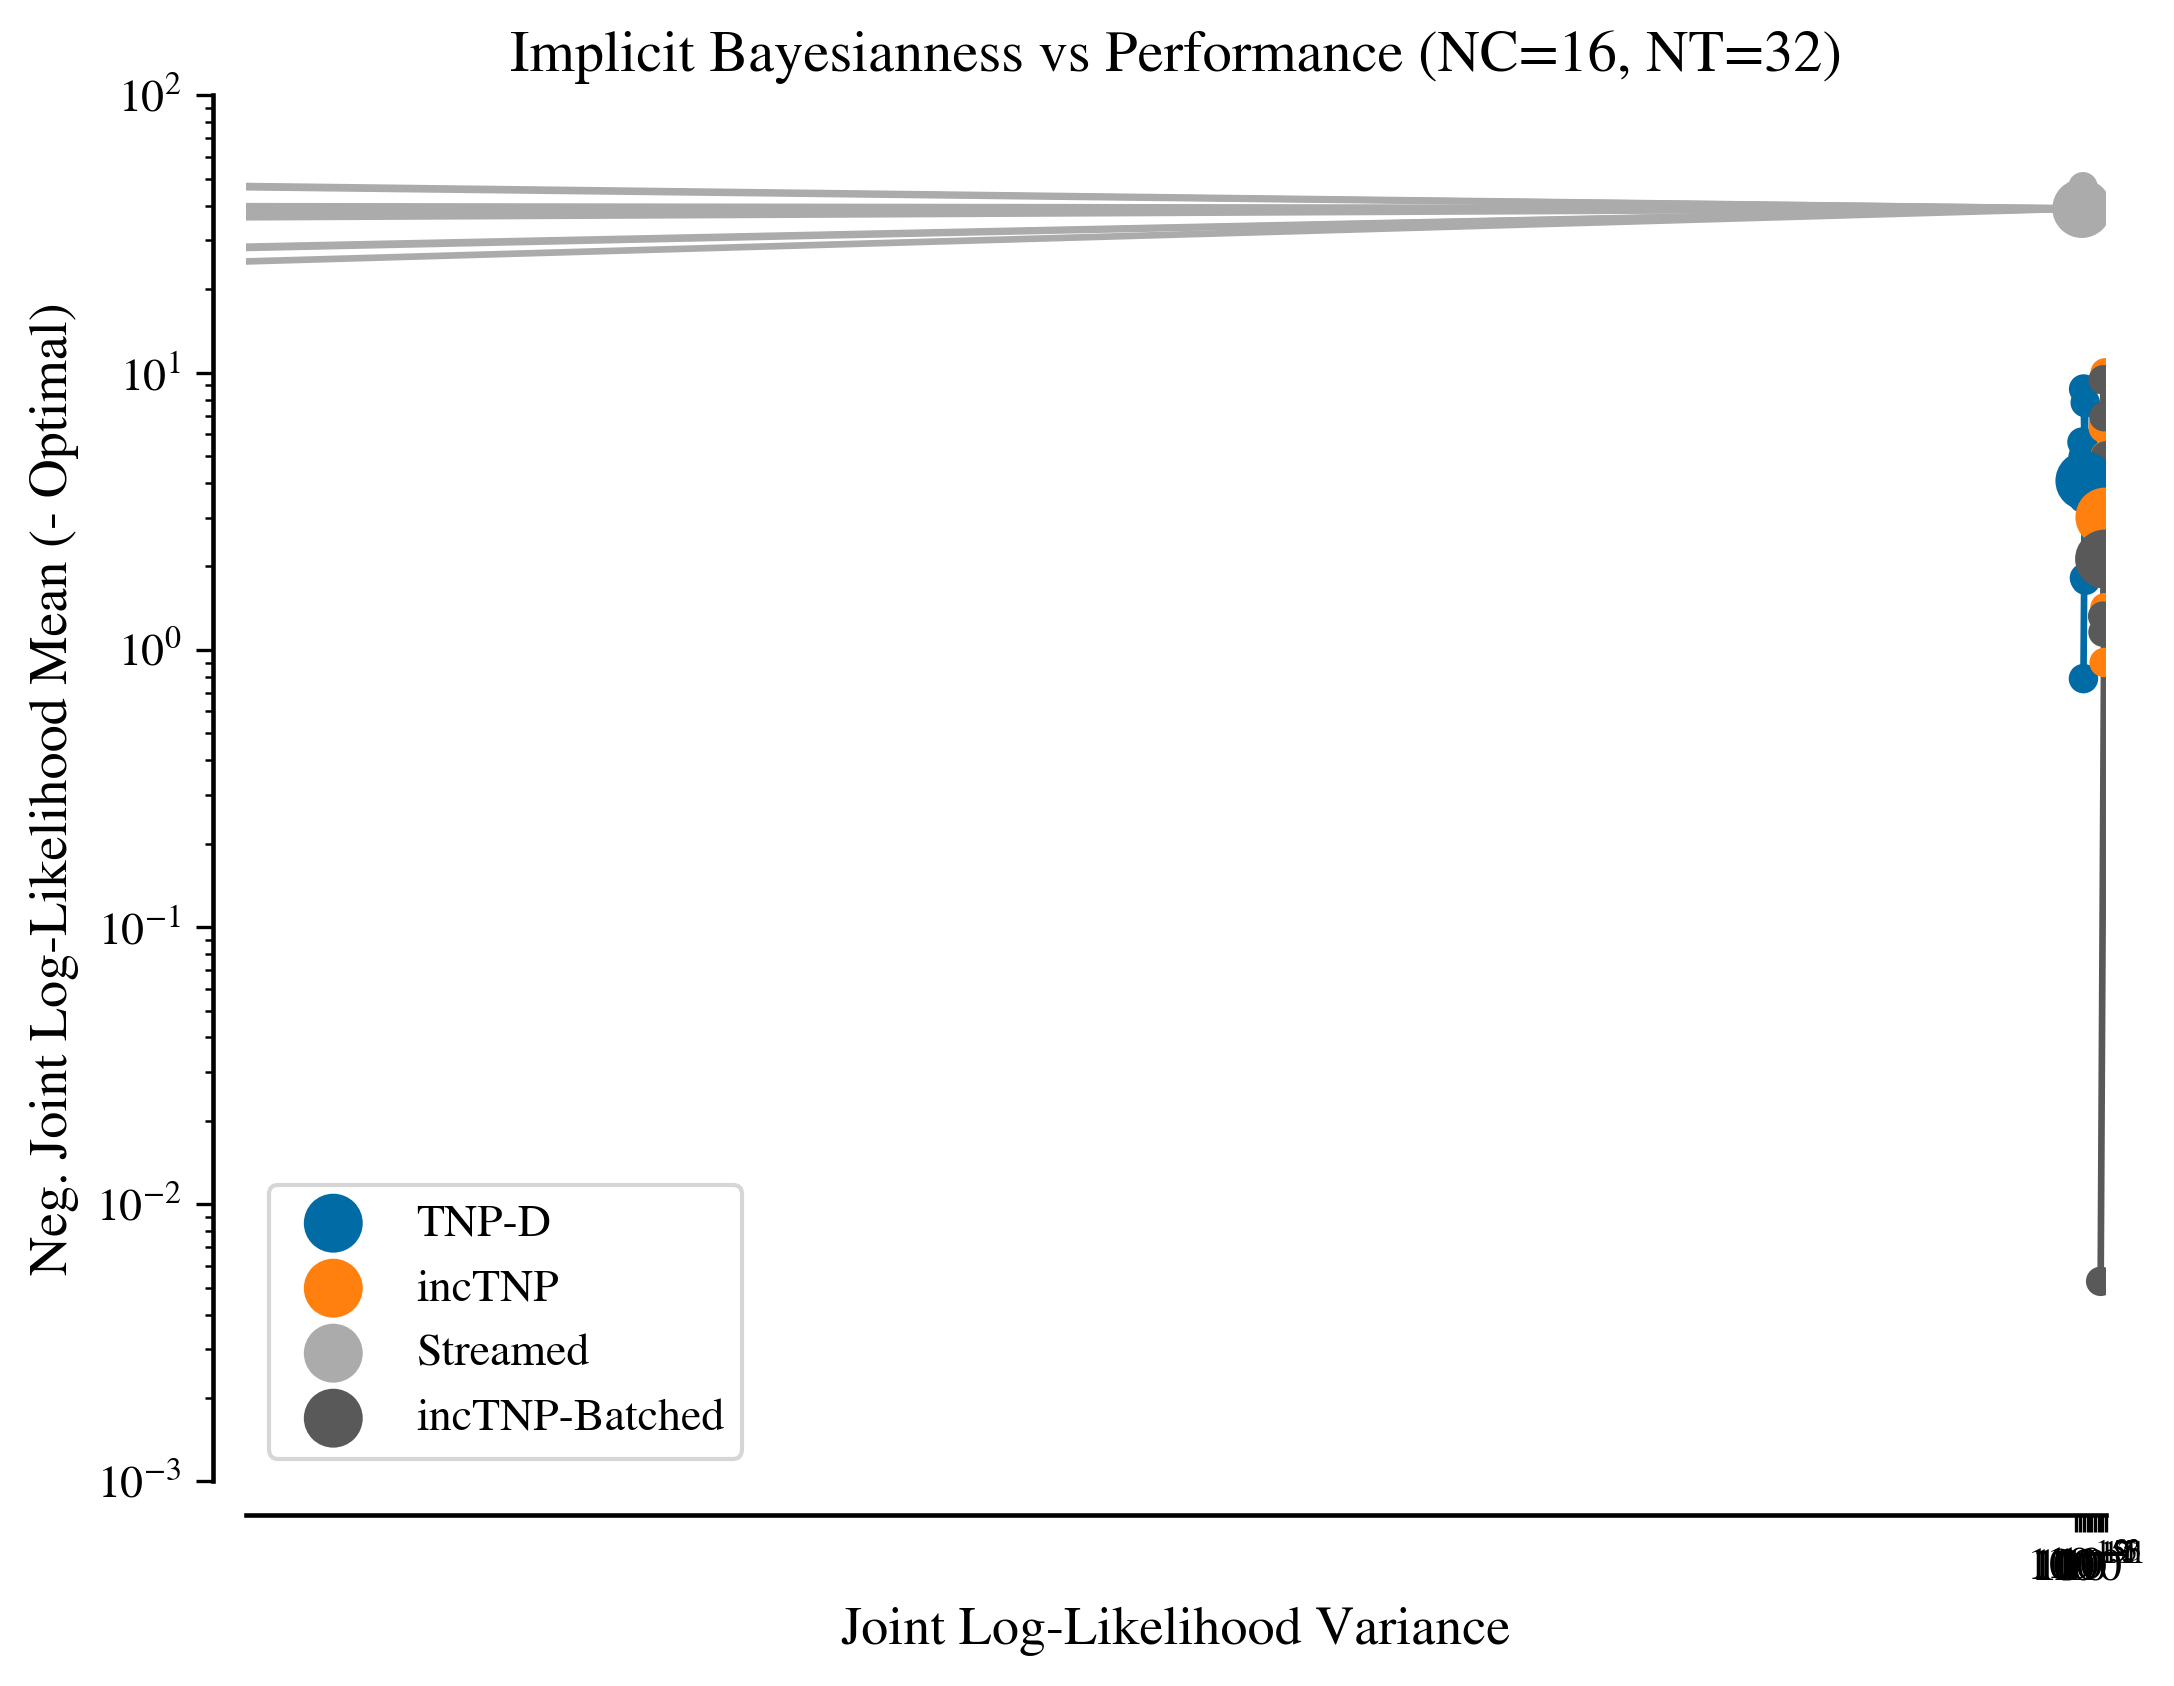
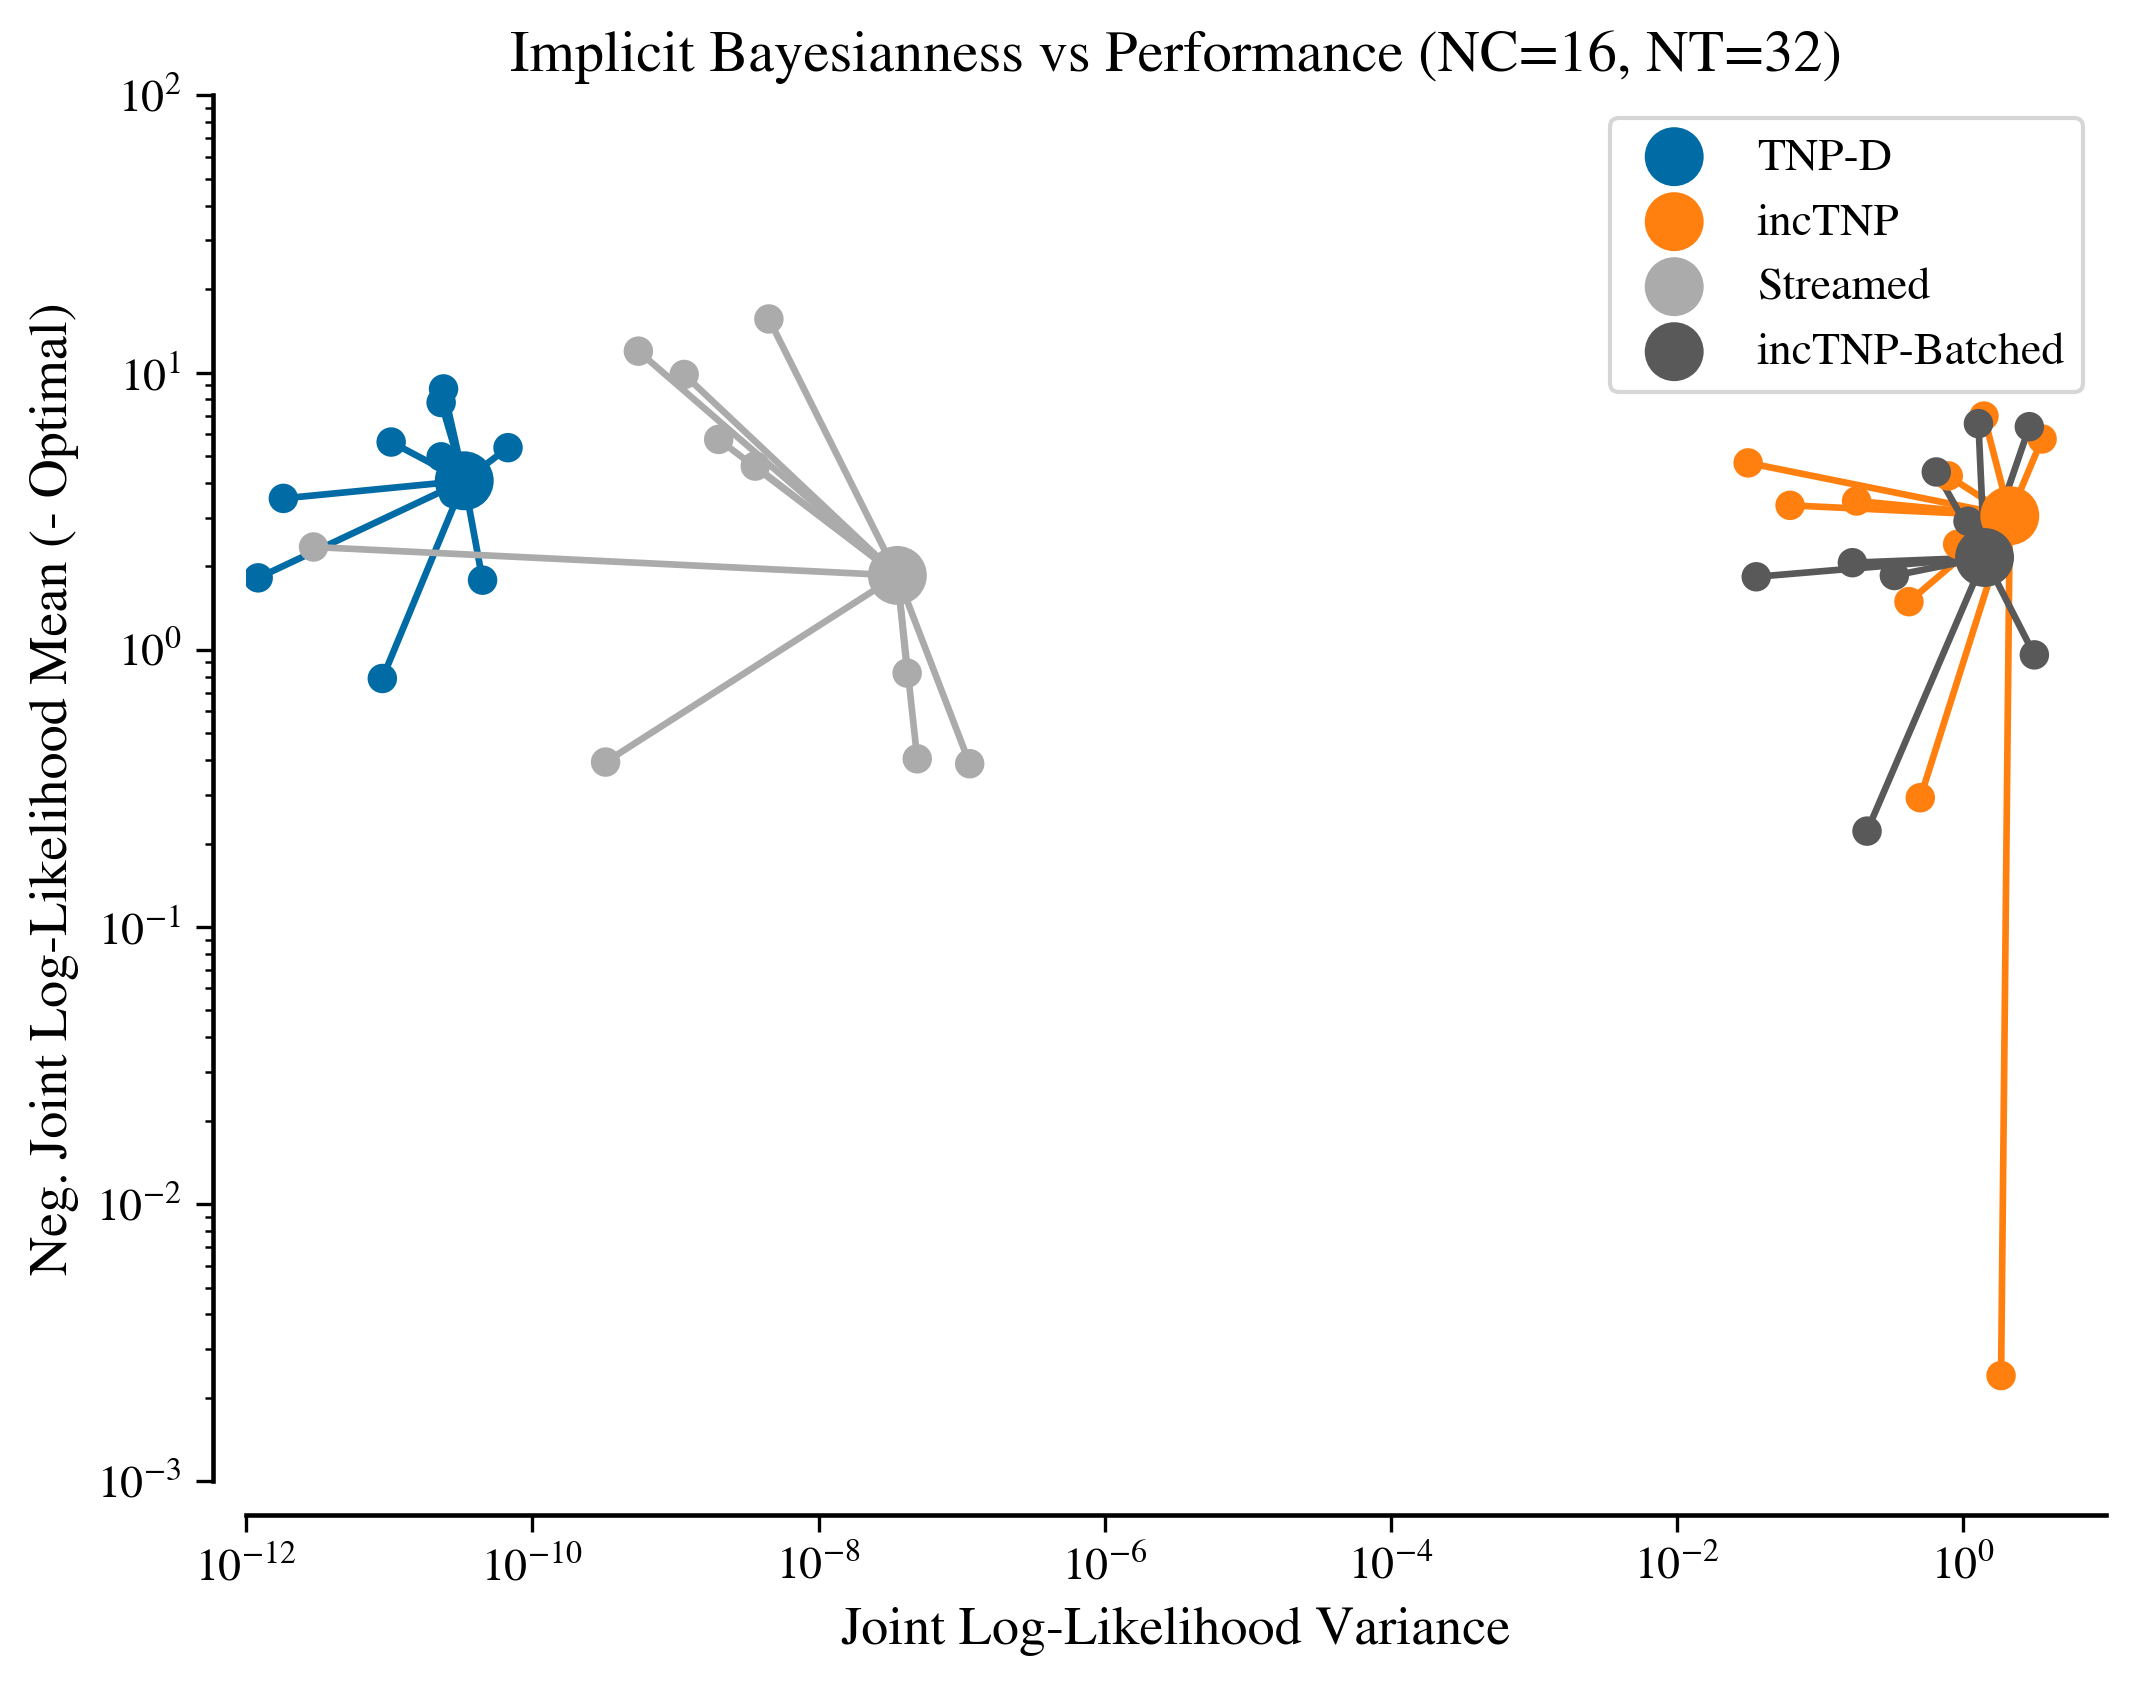
Some experiments plus more performant models for exch

diff --git a/experiments/exchangeability.py b/experiments/exchangeability.py
@@ -72,6 +72,7 @@ def m_var_fixed(tnp_model, xc: torch.Tensor, yc: torch.Tensor, xt: torch.Tensor,
         m, _, dx = xc.shape
         nt = yt.shape[1]
         k_m = K * m
+        assert (is_gp_model and dy == 1) or not is_gp_model, "GP must have dy = 1"
 
         assert return_sample_index == None or (return_sample_index >= 0 and return_sample_index < m), "Invalid return index"
 
@@ -118,9 +119,10 @@ def m_var_fixed(tnp_model, xc: torch.Tensor, yc: torch.Tensor, xt: torch.Tensor,
 
             # Computes log likelihood
             if is_gp_model:
-                log_p_chunk = pred_dist.log_prob(chunk_yt.squeeze(-1)) # Dy must be = 1 for GP so squeeze to get log_p
-            else:
-                log_p_chunk = pred_dist.log_prob(chunk_yt)
+                # Computes marg (ie takes diagonal)
+                pred_dist = pred_dist.to_data_independent_dist()
+                pred_dist = td.Normal(loc=pred_dist.mean.unsqueeze(-1), scale=pred_dist.stddev.unsqueeze(-1)) # Expands for dy=1 term
+            log_p_chunk = pred_dist.log_prob(chunk_yt)
             all_log_probs.append(log_p_chunk)
 
             # Delete unused datastraight away - probably excessive but just to be sure
@@ -133,10 +135,10 @@ def m_var_fixed(tnp_model, xc: torch.Tensor, yc: torch.Tensor, xt: torch.Tensor,
         # Converts list to tensor required
         log_probs = torch.cat(all_log_probs, dim=0) # [K * m, nt, dy] 
         # Handles GP vs TNP cases seperately
-        if is_gp_model:
-            log_probs = log_probs.view(K, m) # [K, m]
-        else:
-            log_probs = log_probs.sum(dim=(-1, -2)).view(K, m)  # sums over nt and dy [K, m]
+        #if is_gp_model:
+        #    log_probs = log_probs.view(K, m) # [K, m]
+        
+        log_probs = log_probs.sum(dim=(-1, -2)).view(K, m)  # sums over nt and dy [K, m]
 
         variance = log_probs.var(dim=0, unbiased=True) # Variance over K - this is Var_PI from eq 5 in paper (this gives [m])
         m_var_val = variance.mean().item() # Mean over m batches sampled from D^(n) - ie the monte-carlo approximation of the expectation
@@ -339,8 +341,8 @@ def get_plot_rbf(nc, nt, samples_per_epoch, batch_size):
 # Attempts to recreate something like figure 2
 def plot_models_setup_rbf_same():
     # Defines each model
-    tnp_plain = ['experiments/configs/synthetic1dRBF/gp_plain_tnp_rangesame.yml', 'pm846-university-of-cambridge/plain-tnp-rbf-rangesame/model-7ib3k6ga:v200', "TNP-D"]
-    inc_tnp = ['experiments/configs/synthetic1dRBF/gp_causal_tnp_rangesame.yml', 'pm846-university-of-cambridge/mask-tnp-rbf-rangesame/model-vavo8sh2:v200', "incTNP"]
+    tnp_plain = ['experiments/configs/synthetic1dRBF/gp_plain_tnp_rangesame.yml', 'pm846-university-of-cambridge/plain-tnp-rbf-rangesame/model-a3qwpptn:v200', "TNP-D"]
+    inc_tnp = ['experiments/configs/synthetic1dRBF/gp_causal_tnp_rangesame.yml', 'pm846-university-of-cambridge/mask-tnp-rbf-rangesame/model-8mxfyfnw:v200', "incTNP"]
     inc_tnp_batched=['experiments/configs/synthetic1dRBF/gp_batched_causal_tnp_rbf_rangesame.yml', 'pm846-university-of-cambridge/mask-batched-tnp-rbf-rangesame/model-xtnh0z37:v200', "incTNP-Batched"]
     models_tnp = [tnp_plain, inc_tnp, inc_tnp_batched]
 
@@ -367,7 +369,7 @@ def plot_models_setup_rbf_same():
 
     models_all_no_ar = models_tnp + models_gp
     models_all = models_tnp + models_gp + models_ar
-    return models_all_no_ar
+    return models_gp
 
 def extract_vars_from_folder_name(folder_name):
     patterns = {
@@ -420,7 +422,7 @@ def plot_from_folder(folder):
             model_summary_txt = f.read()
         # Extracts from the summary fixed format
         lines = model_summary_txt.split("\n")
-        model_name = lines[1].split(" ")[1]
+        model_name = lines[1].split(": ")[1]
         mean_m_var = float(lines[2].split(" ")[1])
         mean_m_nlls = float(lines[3].split(" ")[1])
         npz_file = lines[4].split(": ")[1]
@@ -509,12 +511,7 @@ def gather_stats_models(helper_tuple, base_folder_name):
     use_autoreg_eq=False
     max_samples=samples_per_epoch
     return_samples=max_samples # essentially return as many as possible (but one per batch)
-    skip_existing_folders = True # Skips existing file writes - no need to do work again
-    # Silly test to be deleted hypers start here
-    nc, nt = 16, 32 
-    samples_per_epoch = 350
-    no_permutations=3
-    batch_size = 16
+    skip_existing_folders = False # Skips existing file writes - no need to do work again
     # End of hypers
 
     (models) = helper_tuple

diff --git a/tnp/models/gp_online.py b/tnp/models/gp_online.py
@@ -5,6 +5,7 @@ from torch import nn
 import gpytorch
 from check_shapes import check_shapes
 from typing import Callable, Optional, Literal
+import numpy as np
 
 
 class ExactGP(gpytorch.models.ExactGP):
@@ -85,6 +86,7 @@ class GPStream(nn.Module):
                 optimiser.step()
                 if prev_loss is not None:
                     mean_diff = torch.abs(prev_loss - loss).mean().item()
+                    max_diff = torch.abs(prev_loss - loss).max().item()
                     #print(f"Step {mean_diff:.10f}")
                 # Convergence check
                 if prev_loss is not None and torch.all(torch.abs(prev_loss - loss) < self.tol): 
@@ -92,7 +94,8 @@ class GPStream(nn.Module):
                     break
                 prev_loss = loss.detach()
             if not converged:
-                print(f"GP Training not converged divergence {mean_diff:.10f}")
+                if False: print(f"GP Training not converged divergence max {max_diff:.10f} mean diff {mean_diff:.10f} tol {self.tol:.10f}")
+                #print(likelihood.noise[:5])
             
         likelihood.eval()
         gp.eval()
@@ -108,9 +111,21 @@ class GPStream(nn.Module):
 
         # Constructs batched GP and optimiser
         if self.kernel_name == "rbf":
-            kernel = gpytorch.kernels.ScaleKernel(gpytorch.kernels.MaternKernel(batch_shape=torch.Size([m])),batch_shape=torch.Size([m]))
+            kernel = gpytorch.kernels.ScaleKernel(gpytorch.kernels.RBFKernel(batch_shape=torch.Size([m])),batch_shape=torch.Size([m]))
         else: raise ValueError(f"Invalid kernel: {self.kernel_name}")
         likelihood = gpytorch.likelihoods.GaussianLikelihood(batch_shape=torch.Size([m])).to(self.device)
+        # Noise prior - TNP likely learns true noise over training so probably fair to give GP this info
+        noise_prior = False
+        if noise_prior:
+            likelihood.noise = torch.full((m,), 0.01, device=self.device)
+            likelihood.register_prior(
+                "noise_prior",
+                gpytorch.priors.LogNormalPrior(
+                    loc=np.log(0.01),
+                    scale=0.1,
+                ),
+                "noise"
+            )
         gp = ExactGP(likelihood=likelihood, kernel=kernel, batch_shape=torch.Size([m])).to(self.device)
         optimiser = torch.optim.Adam(gp.parameters(), lr=self.lr)
         mll = gpytorch.mlls.ExactMarginalLogLikelihood(likelihood, gp)
@@ -129,10 +144,10 @@ class GPStreamRBF(GPStream):
     def __init__(
         self,
         chunk_size: int,
-        lr: float = 0.001, # LR for grad updates
-        n_steps: int = 200, # Number of grad steps per update
+        lr: float = 0.05, # LR for grad updates
+        n_steps: int = 25 * 2, # Number of grad steps per update
         train_strat: Literal["Expanding", "Sliding"] = "Expanding",
-        convergence_tolerance: float=1e-4, 
+        convergence_tolerance: float=1e-6, 
         device: str = "cuda",
     ):
         super().__init__(kernel_name="rbf",
